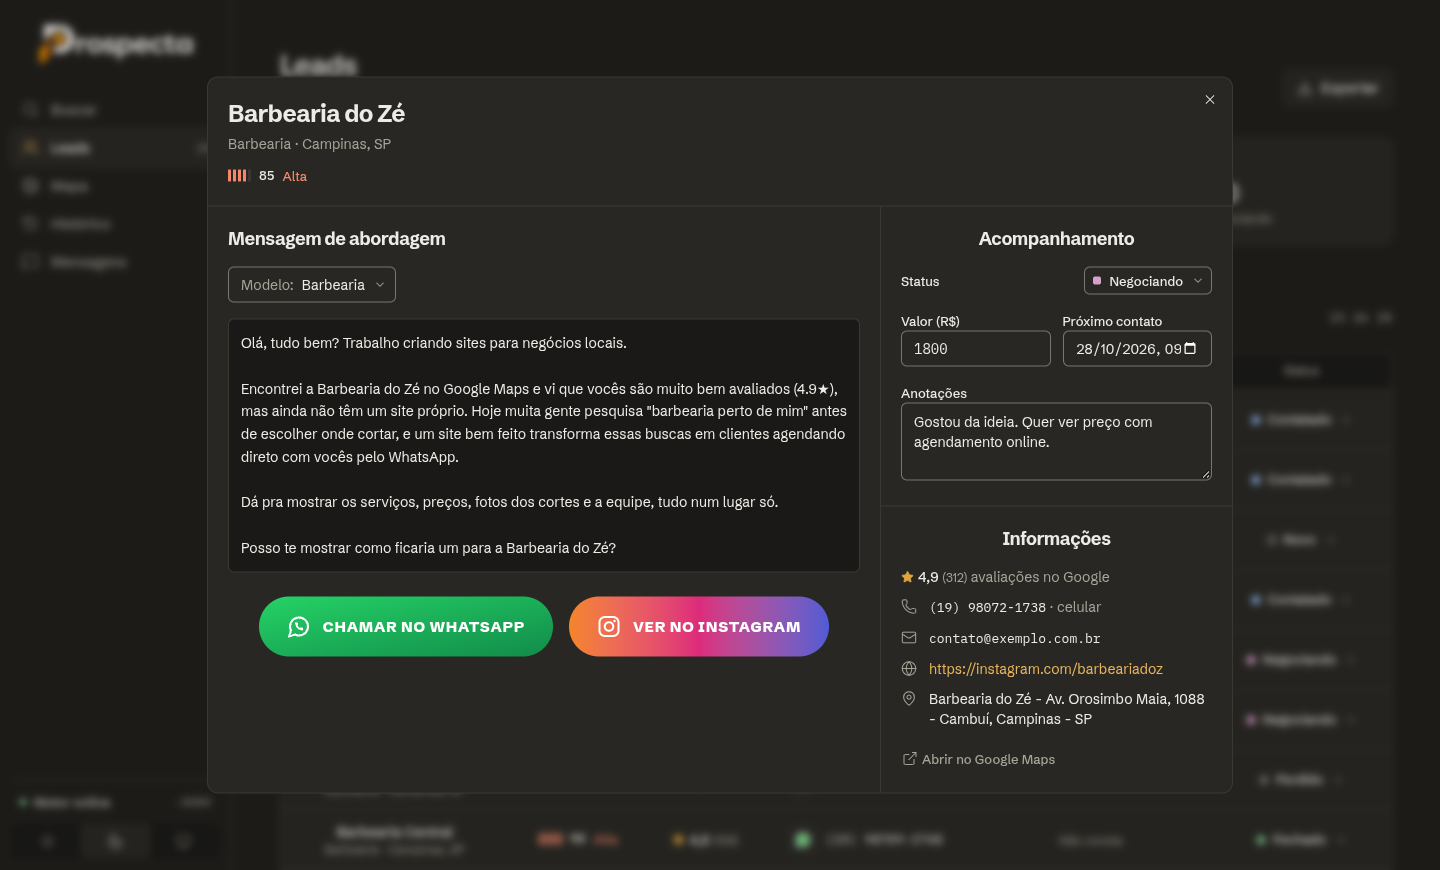
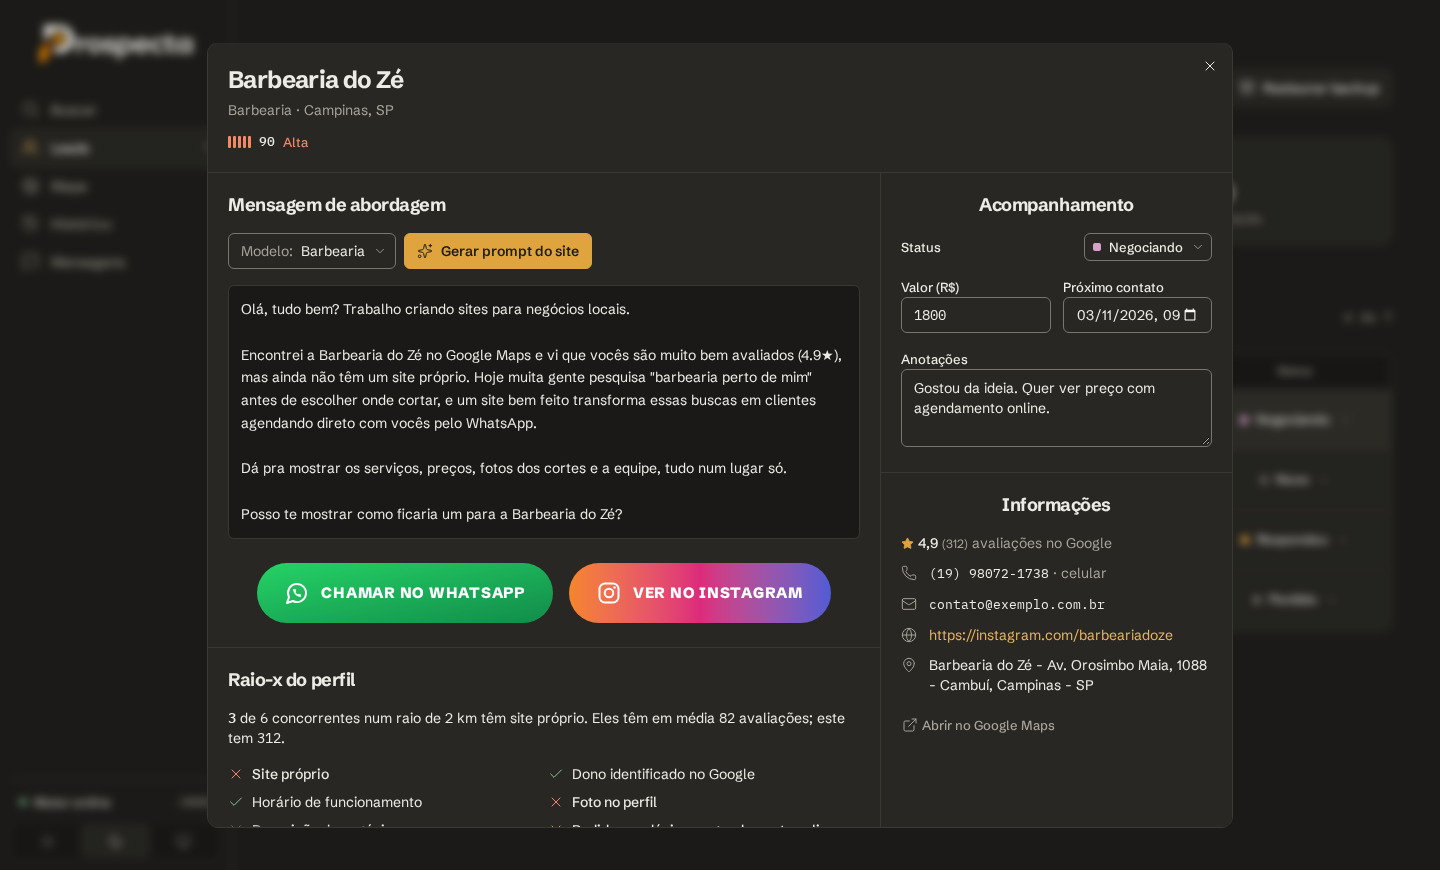
docs(readme): mostra o prompt do site com prints
Seção "Prompt do site: a prévia que ajuda a fechar" com print nos dois
temas, linha na tabela de telas, link no primeiro parágrafo e o passo
"5. Faça a prévia do site" em Como usar. O print do detalhe do lead é
refeito com o botão "Gerar prompt do site" e o raio-x do perfil. Dados
de exemplo (Barbearia do Zé), como nos outros prints.

diff --git a/README.md b/README.md
@@ -1,7 +1,8 @@
 # Prospecta
 
 **Ferramenta open source para encontrar clientes no Google Maps.** Você diz o nicho e a cidade ("barbearias em Campinas"), e o
-Prospecta traz os negócios da região já ordenados por chance de virar cliente, com o botão de WhatsApp pronto para a abordagem.
+Prospecta traz os negócios da região já ordenados por chance de virar cliente, com o botão de WhatsApp pronto para a abordagem
+e um [prompt para uma IA criar a prévia do site](#prompt-do-site-a-prévia-que-ajuda-a-fechar) de cada negócio.
 
 <picture>
   <source media="(prefers-color-scheme: dark)" srcset="docs/images/leads-dark.png">
@@ -64,11 +65,23 @@ card avisa quando o próximo contato é hoje ou está atrasado.
 ### Detalhe do lead: a abordagem pronta
 
 A mensagem já vem preenchida com o nome e a nota do negócio. Um clique abre o WhatsApp; ao lado, você registra a etapa, o valor
-da proposta, o próximo contato e as anotações.
+da proposta, o próximo contato e as anotações. Logo abaixo, o raio-x mostra o que falta no perfil do Google e quantos
+concorrentes por perto já têm site, e o botão **Gerar prompt do site** leva para a prévia do site.
 
 <picture>
   <source media="(prefers-color-scheme: dark)" srcset="docs/images/lead-detalhe-dark.png">
-  <img src="docs/images/lead-detalhe-light.png" alt="Detalhe de um lead no Prospecta: mensagem de abordagem já preenchida, botões de WhatsApp e Instagram, acompanhamento com etapa, valor e próximo contato, e as informações do Google Maps">
+  <img src="docs/images/lead-detalhe-light.png" alt="Detalhe de um lead no Prospecta: mensagem de abordagem já preenchida, botão Gerar prompt do site, botões de WhatsApp e Instagram, raio-x do perfil com a comparação com os concorrentes, acompanhamento com etapa, valor e próximo contato, e as informações do Google Maps">
+</picture>
+
+### Prompt do site: a prévia que ajuda a fechar
+
+Quem vende site convence mais mostrando o site pronto. O Prospecta junta tudo o que sabe do negócio (endereço, WhatsApp,
+fotos, horários, as melhores avaliações, as reclamações dos clientes e os concorrentes por perto) num prompt com diretrizes
+de design para o nicho. Você copia, cola numa IA como Claude, ChatGPT, Lovable ou v0, e manda a prévia para o dono.
+
+<picture>
+  <source media="(prefers-color-scheme: dark)" srcset="docs/images/prompt-do-site-dark.png">
+  <img src="docs/images/prompt-do-site-light.png" alt="Tela Prompt do site do Prospecta para a Barbearia do Zé: nota explicando como fazer a prévia, ajustes de formato, direção de design e observações, e o prompt com os dados do negócio, com os botões Baixar .md e Copiar prompt">
 </picture>
 
 ### Mensagens: seus modelos de abordagem
@@ -83,13 +96,14 @@ mensagem chega.
 
 ## O que ele faz
 
-| Tela          | O que você faz nela                                                                      |
-| ------------- | ---------------------------------------------------------------------------------------- |
-| **Buscar**    | Escolhe nicho e cidade, dispara a busca e acompanha o andamento                          |
-| **Leads**     | Vê os negócios encontrados em tabela ou no funil, filtra, abre os detalhes e exporta CSV |
-| **Mapa**      | Vê onde fica cada negócio, num globo que vira mapa de ruas ao aproximar                  |
-| **Histórico** | Revê as buscas feitas, abre os leads de cada uma ou apaga a busca                        |
-| **Mensagens** | Escreve até 10 modelos de mensagem de abordagem, usados no botão de WhatsApp             |
+| Tela               | O que você faz nela                                                                            |
+| ------------------ | ---------------------------------------------------------------------------------------------- |
+| **Buscar**         | Escolhe nicho e cidade, dispara a busca e acompanha o andamento                                |
+| **Leads**          | Vê os negócios encontrados em tabela ou no funil, filtra, abre os detalhes e exporta CSV       |
+| **Mapa**           | Vê onde fica cada negócio, num globo que vira mapa de ruas ao aproximar                        |
+| **Histórico**      | Revê as buscas feitas, abre os leads de cada uma ou apaga a busca                              |
+| **Mensagens**      | Escreve até 10 modelos de mensagem de abordagem, usados no botão de WhatsApp                   |
+| **Prompt do site** | Abre pelo detalhe do lead: junta tudo do negócio num prompt para uma IA criar a prévia do site |
 
 Recursos principais:
 
@@ -97,7 +111,8 @@ Recursos principais:
 - **Funil de vendas (pipeline)** com as etapas Novo → Contatado → Respondeu → Negociando → Fechado / Perdido. É só arrastar o
   card; cada coluna soma o valor das propostas. Veja [o funil](#pipeline-o-funil-de-vendas).
 - **Prompt do site:** gera, para cada lead, um prompt completo (dados, fotos, horários, avaliações, concorrência e
-  diretrizes de design do nicho) para colar numa IA como Claude, ChatGPT, Lovable ou v0 e receber o site pronto.
+  diretrizes de design do nicho) para colar numa IA como Claude, ChatGPT, Lovable ou v0 e receber o site pronto. Veja
+  [o prompt do site](#prompt-do-site-a-prévia-que-ajuda-a-fechar).
 - **Raio-x do perfil:** o que falta no perfil do negócio no Google (horário, foto, descrição, pedido online) e quantos
   concorrentes da mesma categoria, num raio de 2 km, já têm site. No mapa, os bairros com mais negócios sem site.
 - **Acompanhamento por lead:** valor da proposta, data do próximo contato (com aviso de atrasado ou hoje) e anotações.
@@ -257,7 +272,23 @@ Na tela **Leads**, troque para **Pipeline** para ver o funil. Arraste os cards e
 tem e quanto somam as propostas. O card avisa quando o próximo contato é **hoje** ou está **atrasado**, e os números do topo
 resumem quantos leads ainda não foram abordados e quanto já foi fechado ([veja o print](#pipeline-o-funil-de-vendas)).
 
-### 5. Veja os leads no mapa
+### 5. Faça a prévia do site
+
+No detalhe do lead, clique em **Gerar prompt do site**. A tela mostra o prompt montado com os dados do negócio e o que entrou
+nele (fotos, depoimentos, horários, localização, WhatsApp). Ajuste se quiser:
+
+- **Onde vai colar:** HTML + CSS (um arquivo pronto para abrir e publicar) ou React + TailwindCSS (para ferramentas que montam
+  projetos React).
+- **Direção de design:** o Prospecta sugere uma pela categoria do negócio, entre 15 nichos (beleza, comida, saúde, pet,
+  academia, oficina, construção, moda, escola, advocacia e contabilidade, imobiliária, eventos, hotel, assistência técnica
+  e negócio local). Cada uma traz clima, paleta, fontes, fotos e as seções certas para o nicho.
+- **Observações:** o que você sabe e o Google não ("o dono quer agendamento online", "prefere azul").
+
+Clique em **Copiar prompt** (ou **Baixar .md**), cole numa IA e mande o resultado para o dono pelo WhatsApp. O prompt pede para
+a IA não inventar preço, prêmio ou serviço: o que faltar aparece no site como [confirmar com o cliente]
+([veja o print](#prompt-do-site-a-prévia-que-ajuda-a-fechar)).
+
+### 6. Veja os leads no mapa
 
 A tela **Mapa** mostra onde fica cada negócio. De longe é um **globo** com as regiões em que você buscou: cada círculo dourado
 agrupa os leads de uma região e mostra quantos são. Clique num círculo, ou aproxime, e ele se abre em pontos com a cor da etapa

diff --git a/CHANGELOG.md b/CHANGELOG.md
@@ -7,6 +7,11 @@ O formato segue o [Keep a Changelog](https://keepachangelog.com/pt-BR/1.1.0/) e 
 
 ## [Não lançado]
 
+### Alterado
+
+- README mostra o prompt do site: seção com print nos temas claro e escuro, passo a passo em "Como usar" e o print do
+  detalhe do lead atualizado com o botão "Gerar prompt do site" e o raio-x do perfil.
+
 ## [0.4.0] - 2026-10-30
 
 ### Adicionado
